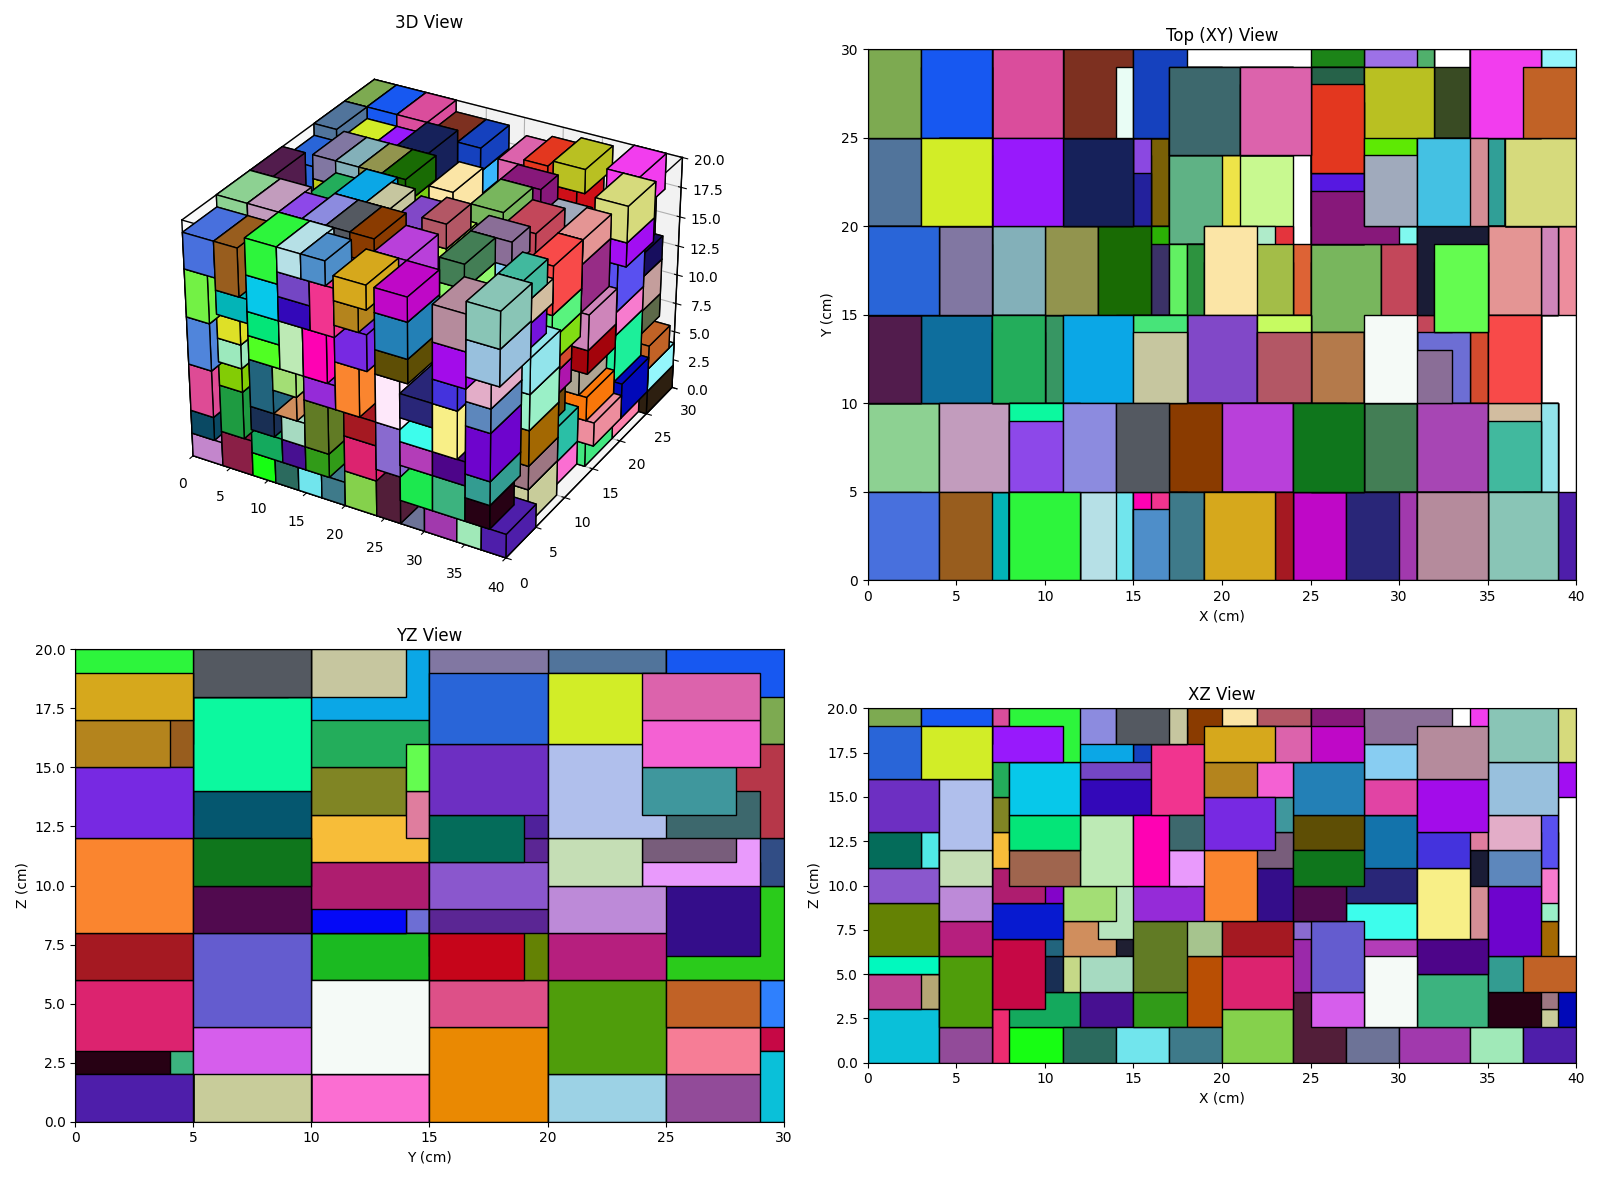
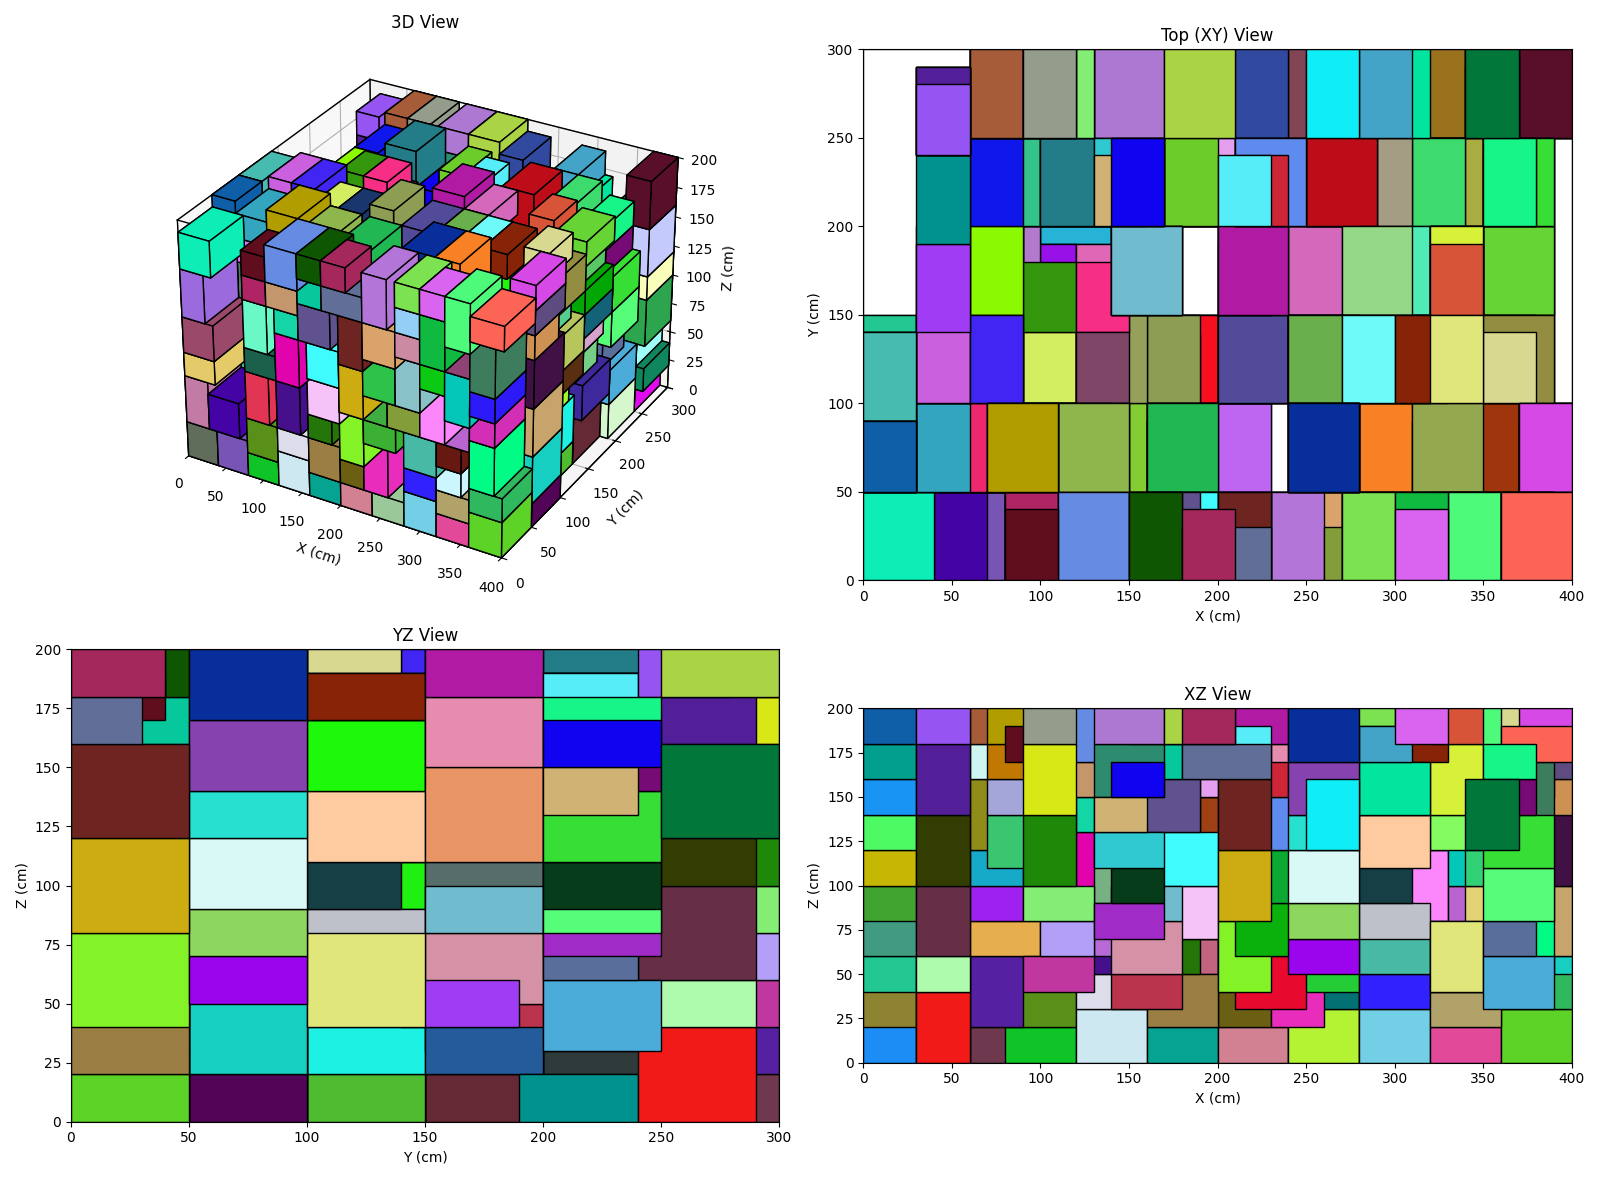
Updated DQN with proper visualization

diff --git a/run_simulation.py b/run_simulation.py
@@ -177,6 +177,12 @@ def visualize_all_views(placed_items, container_dims, save_path=None):
     ax1.set_ylim([0, W])
     ax1.set_zlim([0, H])
     ax1.set_title("3D View")
+    ax1.set_xlabel("X (cm)")
+    ax1.set_ylabel("Y (cm)")
+    ax1.set_zlabel("Z (cm)")
+    ax1.xaxis.set_major_formatter(ticker.FuncFormatter(lambda x, pos: f"{int(x * GRID_RESOLUTION)}"))
+    ax1.yaxis.set_major_formatter(ticker.FuncFormatter(lambda y, pos: f"{int(y * GRID_RESOLUTION)}"))
+    ax1.zaxis.set_major_formatter(ticker.FuncFormatter(lambda z, pos: f"{int(z * GRID_RESOLUTION)}"))
 
     # --- Top (XY) View ---
     ax2 = fig.add_subplot(222)
@@ -193,6 +199,8 @@ def visualize_all_views(placed_items, container_dims, save_path=None):
     ax2.set_xlabel("X (cm)")
     ax2.set_ylabel("Y (cm)")
     ax2.set_title("Top (XY) View")
+    ax2.xaxis.set_major_formatter(ticker.FuncFormatter(lambda x, pos: f"{int(x * GRID_RESOLUTION)}"))
+    ax2.yaxis.set_major_formatter(ticker.FuncFormatter(lambda y, pos: f"{int(y * GRID_RESOLUTION)}"))
 
     # --- YZ View ---
     ax3 = fig.add_subplot(223)
@@ -209,6 +217,8 @@ def visualize_all_views(placed_items, container_dims, save_path=None):
     ax3.set_xlabel("Y (cm)")
     ax3.set_ylabel("Z (cm)")
     ax3.set_title("YZ View")
+    ax3.xaxis.set_major_formatter(ticker.FuncFormatter(lambda x, pos: f"{int(x * GRID_RESOLUTION)}"))
+    ax3.yaxis.set_major_formatter(ticker.FuncFormatter(lambda y, pos: f"{int(y * GRID_RESOLUTION)}"))
 
     # --- XZ View ---
     ax4 = fig.add_subplot(224)
@@ -225,6 +235,8 @@ def visualize_all_views(placed_items, container_dims, save_path=None):
     ax4.set_xlabel("X (cm)")
     ax4.set_ylabel("Z (cm)")
     ax4.set_title("XZ View")
+    ax4.xaxis.set_major_formatter(ticker.FuncFormatter(lambda x, pos: f"{int(x * GRID_RESOLUTION)}"))
+    ax4.yaxis.set_major_formatter(ticker.FuncFormatter(lambda y, pos: f"{int(y * GRID_RESOLUTION)}"))
 
     plt.tight_layout()
     if save_path:
@@ -334,6 +346,8 @@ if __name__ == "__main__":
     total_utilization = 0.0
 
     visualize = False
+    utilizations = []  # <--- store all utilization ratios here
+    num_of_placements = []  # <--- store all item counts here
 
     for run in range(num_runs):
         if run > 0:
@@ -346,10 +360,16 @@ if __name__ == "__main__":
         total_items += num_items
         total_utilization += utilization
 
+        utilizations.append(utilization * 100)
+        num_of_placements.append(num_items)
+
     avg_items = total_items / num_runs
     avg_utilization = total_utilization / num_runs
 
     print("=" * 60)
+    print(f"utilization = {utilizations}")
+    print(f"num_of_placements = {num_of_placements}")
+    print("-" * 60)
     print(f"Average over {num_runs} runs:")
     print(f"- Average Number of Items Placed: {avg_items:.2f}")
     print(f"- Average Utilization Ratio: {avg_utilization * 100:.4f}%")
